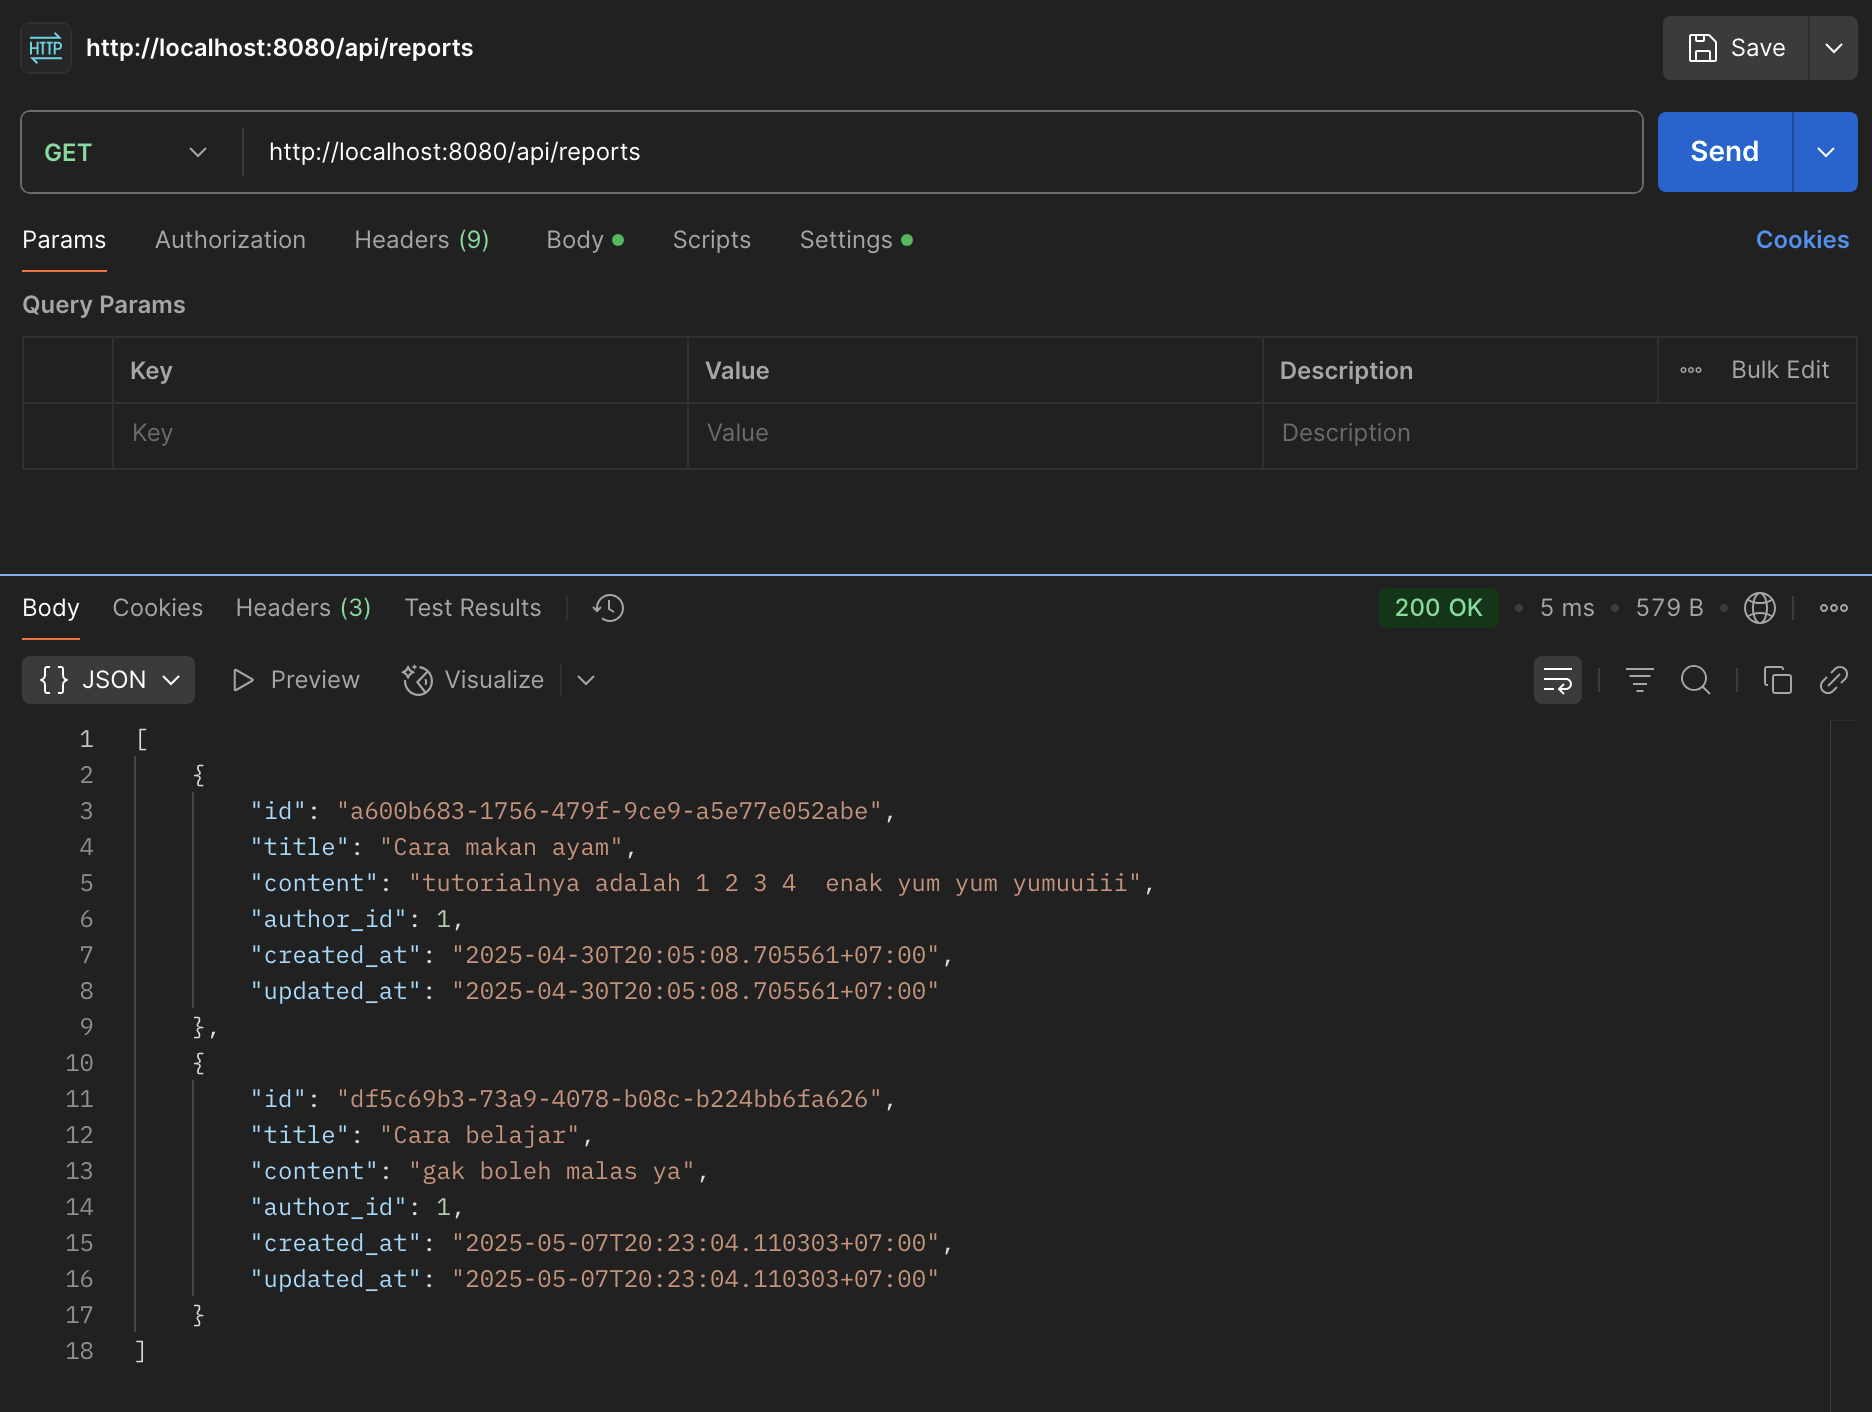
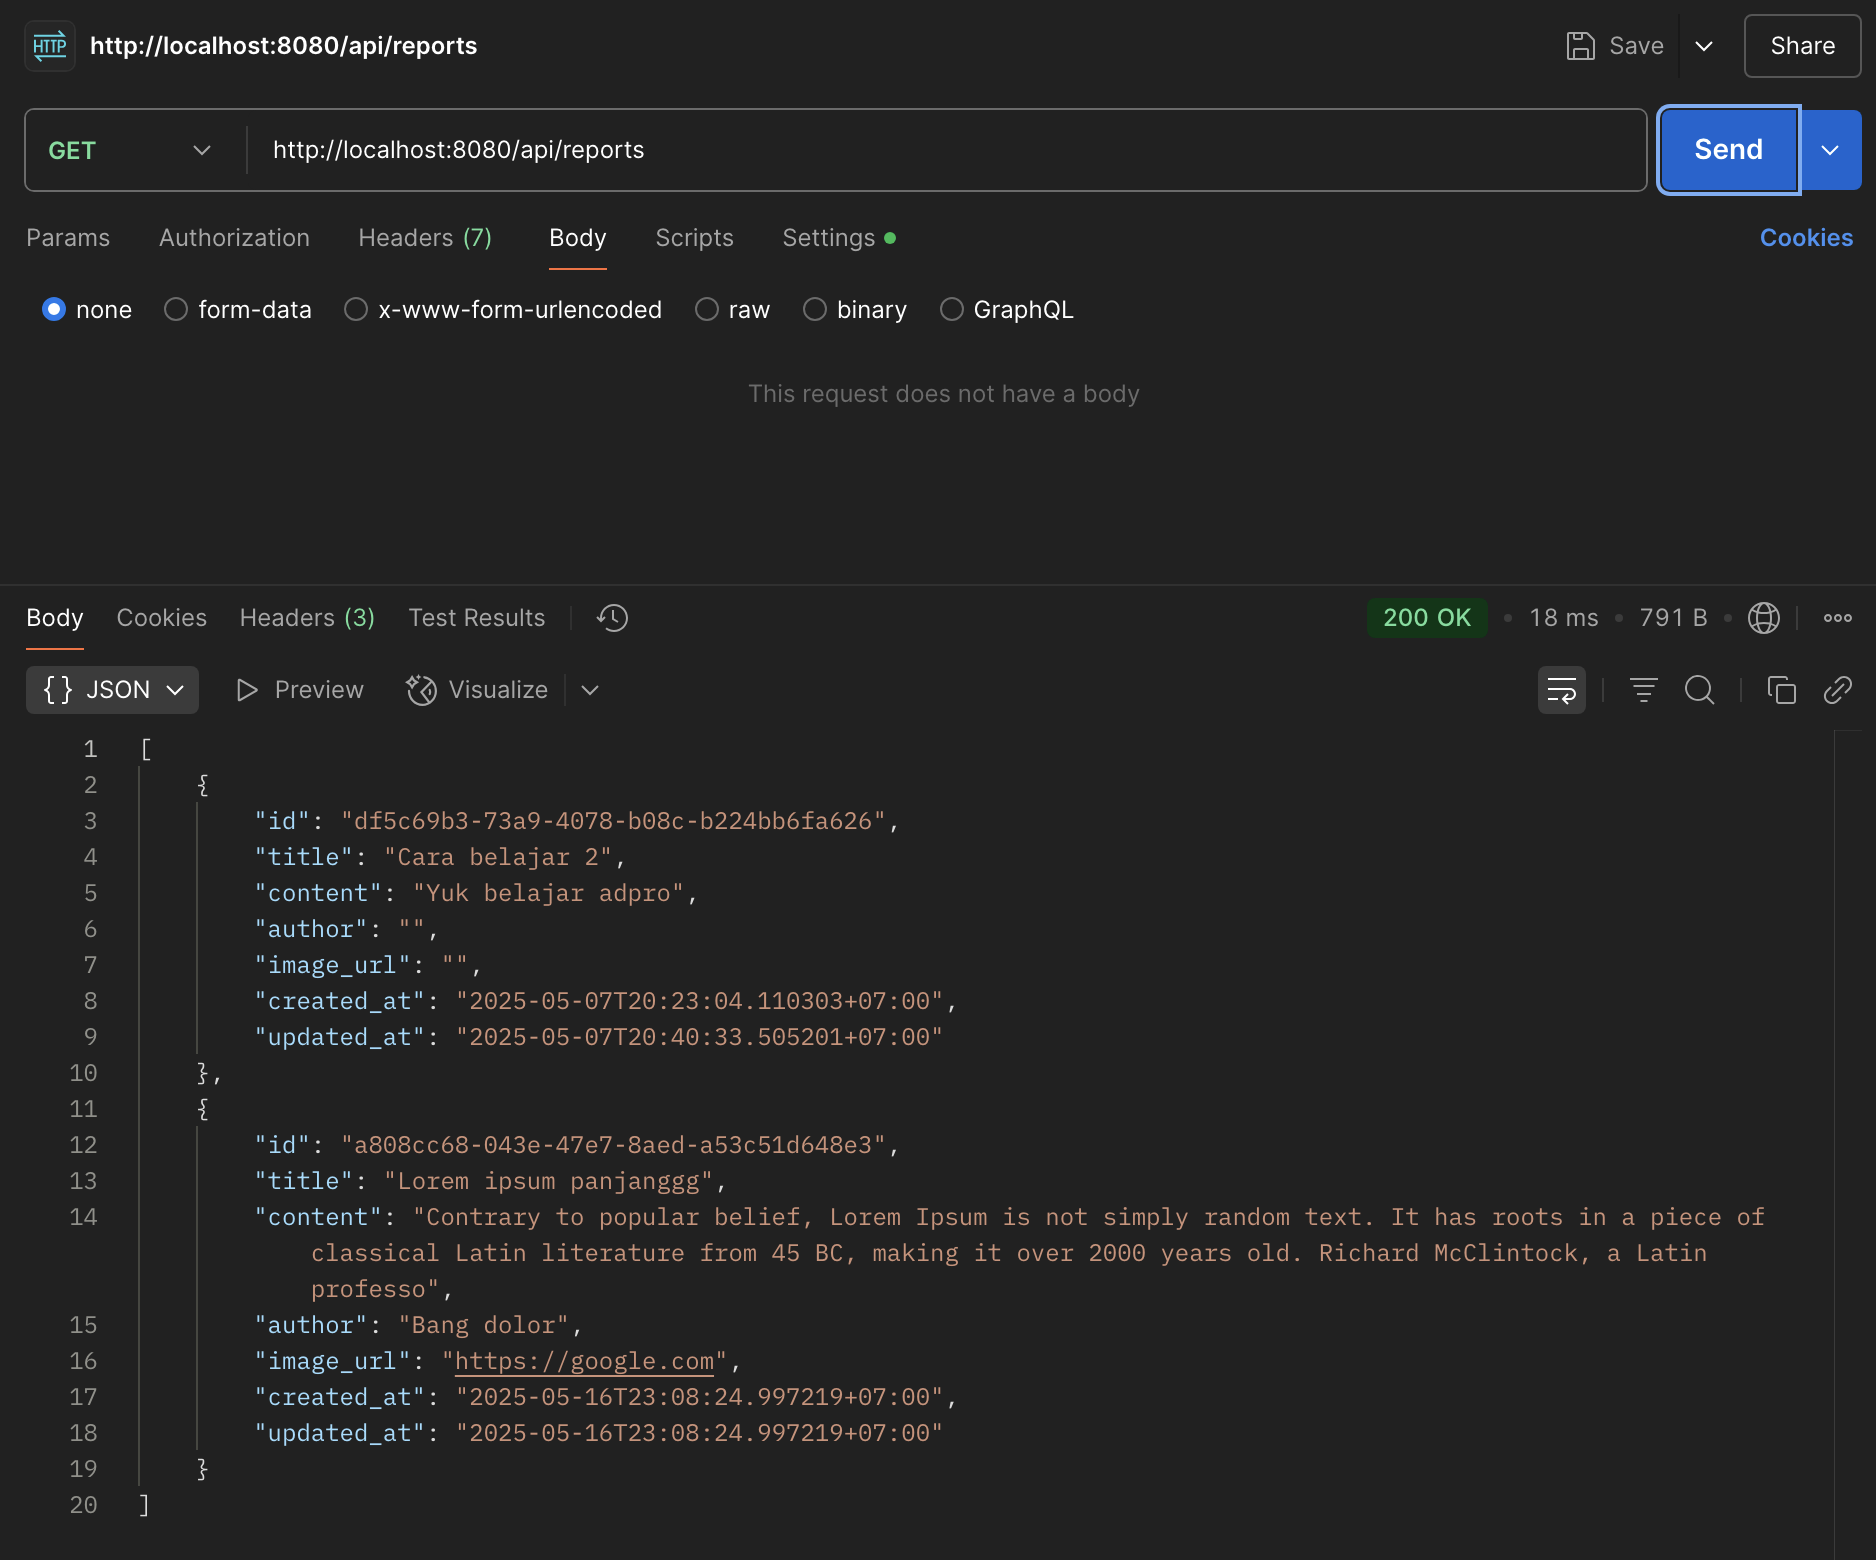
feat(report): implement bulk delete, enrich report schema, and enhance endpoints
- Add bulk delete endpoint for reports via DELETE /api/reports/bulk
- Remove Author table and refactor `author` to be simple string field
- Include `author` and `image_url` fields in POST and PUT payloads
- Add `id` field to POST /api/reports response for redirection usage
- Trim `content` field to first 200 characters in GET /api/reports for lighter payload
- Secure all report routes with JWT middleware

diff --git a/app/report/repository.go b/app/report/repository.go
@@ -1,8 +1,11 @@
 package report
 
 import (
-    "github.com/google/uuid"
-    "gorm.io/gorm"
+	"fmt"
+	"strings"
+
+	"github.com/google/uuid"
+	"gorm.io/gorm"
 )
 
 type ReportRepository interface {
@@ -10,7 +13,9 @@ type ReportRepository interface {
     GetByID(id uuid.UUID) (*Report, error)
     Update(report *Report) error
     Delete(id uuid.UUID) error
-    GetAll() ([]Report, error)
+    DeleteAll() error
+    GetAll() ([]*Report, error)
+    GetAllTrimmedContent() ([]*Report, error)
 }
 
 type GormReportRepository struct {
@@ -41,10 +46,35 @@ func (r *GormReportRepository) Delete(id uuid.UUID) error {
     return r.db.Delete(&Report{}, "id = ?", id).Error
 }
 
-func (r *GormReportRepository) GetAll() ([]Report, error) {
-    var reports []Report
+func (r *GormReportRepository) DeleteAll() error {
+    return r.db.Unscoped().Delete(&Report{}).Error
+}
+
+func (r *GormReportRepository) GetAll() ([]*Report, error) {
+    var reports []*Report
     if err := r.db.Find(&reports).Error; err != nil {
         return nil, err
     }
     return reports, nil
+}
+
+func (r *GormReportRepository) GetAllTrimmedContent() ([]*Report, error) {
+    var reports []*Report
+
+    fields := []string{
+        "id",
+        "title",
+        fmt.Sprintf("LEFT(content, %d) AS content", MAX_REPORT_CONTENT_PREVIEW_LENGTH),
+        "author",
+        "image_url",
+        "created_at",
+        "updated_at",
+    }
+
+    err := r.db.
+        Model(&Report{}).
+        Select(strings.Join(fields, ", ")).
+        Find(&reports).Error
+
+    return reports, err
 }

diff --git a/app/report/service.go b/app/report/service.go
@@ -9,7 +9,8 @@ type ReportService interface {
     GetReport(id uuid.UUID) (*Report, error)
     UpdateReport(id uuid.UUID, input UpdateReportRequest) (*Report, error)
     DeleteReport(id uuid.UUID) error
-    ListReports() ([]Report, error)
+    DeleteAllReports() error
+    ListReports() ([]*Report, error)
 }
 
 type reportService struct {
@@ -24,7 +25,8 @@ func (s *reportService) CreateReport(input CreateReportRequest, authorID uint) (
     report := &Report{
         Title:    input.Title,
         Content:  input.Content,
-        AuthorID: authorID,
+        Author: input.Author,
+        ImageURL: input.ImageURL,
     }
     if err := s.repo.Create(report); err != nil {
         return nil, err
@@ -48,6 +50,9 @@ func (s *reportService) UpdateReport(id uuid.UUID, input UpdateReportRequest) (*
     if input.Content != "" {
         report.Content = input.Content
     }
+    if input.ImageURL != "" {
+        report.ImageURL = input.ImageURL
+    }
 
     if err := s.repo.Update(report); err != nil {
         return nil, err
@@ -59,6 +64,10 @@ func (s *reportService) DeleteReport(id uuid.UUID) error {
     return s.repo.Delete(id)
 }
 
-func (s *reportService) ListReports() ([]Report, error) {
-    return s.repo.GetAll()
+func (s *reportService) DeleteAllReports() error {
+    return s.repo.DeleteAll()
+}
+
+func (s *reportService) ListReports() ([]*Report, error) {
+    return s.repo.GetAllTrimmedContent()
 }

diff --git a/app/auth/middleware.go b/app/auth/middleware.go
@@ -1,0 +1,42 @@
+package auth
+
+import (
+	"net/http"
+
+	"github.com/gin-gonic/gin"
+	"github.com/golang-jwt/jwt/v5"
+)
+
+func (u *Util) JwtAuthMiddleware() gin.HandlerFunc {
+	return func(c *gin.Context) {
+		tokenString, err := u.ExtractJwtToken(c.Request)
+		if err != nil {
+			c.JSON(http.StatusUnauthorized, gin.H{"error": "Unauthorized: missing or invalid token"})
+			c.Abort()
+			return
+		}
+
+		token, err := u.ToJwtToken(tokenString)
+		if err != nil || !token.Valid {
+			c.JSON(http.StatusUnauthorized, gin.H{"error": "Unauthorized: invalid token"})
+			c.Abort()
+			return
+		}
+
+		mapClaims, ok := token.Claims.(jwt.MapClaims)
+		if !ok {
+			c.JSON(http.StatusUnauthorized, gin.H{"error": "Unauthorized: invalid claims format"})
+			c.Abort()
+			return
+		}
+
+		_, ok = mapClaims["sub"].(string)
+		if !ok {
+			c.JSON(http.StatusUnauthorized, gin.H{"error": "Unauthorized: missing subject"})
+			c.Abort()
+			return
+		}
+
+		c.Next()
+	}
+}

diff --git a/app/report/route.go b/app/report/route.go
@@ -1,21 +1,24 @@
 package report
 
 import (
+    "github.com/setyadi-law-firm/setyadi-be/app/auth"
     "github.com/gin-gonic/gin"
     "gorm.io/gorm"
 )
 
-func ReportRoutes(r *gin.Engine, db *gorm.DB) {
+func ReportRoutes(r *gin.Engine, db *gorm.DB, authUtil *auth.Util) {
     repo := NewGormReportRepository(db)
     service := NewReportService(repo)
     handler := NewReportHandler(service)
 
     reportGroup := r.Group("/api/reports")
+    reportGroup.Use(authUtil.JwtAuthMiddleware())
     {
         reportGroup.POST("", handler.CreateReport)
         reportGroup.GET("", handler.ListReports)
         reportGroup.GET("/:id", handler.GetReport)
         reportGroup.PUT("/:id", handler.UpdateReport)
+        reportGroup.DELETE("/", handler.DeleteAllReports)
         reportGroup.DELETE("/:id", handler.DeleteReport)
     }
 }

diff --git a/app/report/dto.go b/app/report/dto.go
@@ -3,18 +3,22 @@ package report
 type CreateReportRequest struct {
     Title   string `json:"title" binding:"required"`
     Content string `json:"content" binding:"required"`
+    Author string `json:"author" binding:"required"`
+    ImageURL string `json:"image_url" binding:"required"`
 }
 
 type UpdateReportRequest struct {
     Title   string `json:"title"`
     Content string `json:"content"`
+    ImageURL string `json:"image_url"`
 }
 
 type ReportResponse struct {
     ID        string `json:"id"`
     Title     string `json:"title"`
     Content   string `json:"content"`
-    AuthorID  uint   `json:"author_id"`
+    Author  string   `json:"author"`
+    ImageURL string `json:"image_url" binding:"required"`
     CreatedAt string `json:"created_at"`
     UpdatedAt string `json:"updated_at"`
 }

diff --git a/app/image/route.go b/app/image/route.go
@@ -1,16 +1,18 @@
 package image
 
 import (
-    "github.com/gin-gonic/gin"
-    "github.com/setyadi-law-firm/setyadi-be/app/models"
+	"github.com/gin-gonic/gin"
+	"github.com/setyadi-law-firm/setyadi-be/app/auth"
+	"github.com/setyadi-law-firm/setyadi-be/app/models"
 )
 
-func ImageRoutes(r *gin.Engine, config *models.Config) {
+func ImageRoutes(r *gin.Engine, config *models.Config, authUtil *auth.Util) {
     supabase := NewSupabase(config)
     service := NewImageService(supabase)
     handler := NewImageHandler(service)
 
     imageGroup := r.Group("/images")
+    imageGroup.Use(authUtil.JwtAuthMiddleware())
     {
         imageGroup.POST("", handler.UploadImage)
     }

diff --git a/app/report/handler.go b/app/report/handler.go
@@ -90,6 +90,15 @@ func (h *ReportHandler) DeleteReport(c *gin.Context) {
     c.JSON(http.StatusOK, gin.H{"message": "Report deleted successfully"})
 }
 
+func (h *ReportHandler) DeleteAllReports(c *gin.Context) {
+    if err := h.service.DeleteAllReports(); err != nil {
+        c.JSON(http.StatusInternalServerError, gin.H{"error": err.Error()})
+        return
+    }
+
+    c.JSON(http.StatusOK, gin.H{"message": "Report deleted successfully"})
+}
+
 func (h *ReportHandler) ListReports(c *gin.Context) {
     reports, err := h.service.ListReports()
     if err != nil {

diff --git a/app/report/model.go b/app/report/model.go
@@ -1,17 +1,18 @@
 package report
 
 import (
-    "time"
+	"time"
 
-    "github.com/google/uuid"
-    "gorm.io/gorm"
+	"github.com/google/uuid"
+	"gorm.io/gorm"
 )
 
 type Report struct {
     ID        uuid.UUID `json:"id" gorm:"type:uuid;primaryKey"`
     Title     string    `json:"title"`
     Content   string    `json:"content"`
-    AuthorID  uint      `json:"author_id"`
+    Author  string      `json:"author"`
+    ImageURL string `json:"image_url"`
     CreatedAt time.Time `json:"created_at"`
     UpdatedAt time.Time `json:"updated_at"`
 }

diff --git a/main.go b/main.go
@@ -36,9 +36,11 @@ func main() {
 
 	r := gin.Default()
 
+	authUtil := auth.NewUtil(config)
+
 	auth.AuthRoutes(r, db, config)
-	image.ImageRoutes(r, config)
-	report.ReportRoutes(r, db)
+	image.ImageRoutes(r, config, authUtil)
+	report.ReportRoutes(r, db, authUtil)
 
 	if err := r.Run(":8080"); err != nil {
 		log.Fatal("failed to start server:", err)

diff --git a/app/auth/route.go b/app/auth/route.go
@@ -13,7 +13,7 @@ func AuthRoutes(r *gin.Engine, db *gorm.DB, config *models.Config) {
 	service := NewAuthService(repo, util)
 	handler := NewAuthHandler(service)
 
-	authGroup := r.Group("/auth")
+	authGroup := r.Group("/api/auth")
 	{
 		authGroup.POST("/register", handler.Register)
 		authGroup.POST("/login", handler.Login)

diff --git a/app/report/constant.go b/app/report/constant.go
@@ -1,0 +1,5 @@
+package report
+
+const (
+    MAX_REPORT_CONTENT_PREVIEW_LENGTH = 200
+)

diff --git a/README.md b/README.md
@@ -56,6 +56,4 @@ curl --location --request DELETE 'http://localhost:8080/api/reports/<REPORT_ID>'
 ```
 
 # Note
-1. No Authorization (yet), by default, the uploading user id is 1
-2. Following (1), there is no middleware (yet)
-3. No protection for supabase uploading
+1. For `GET /api/reports`, the content are trimmed to the first 200 characters
